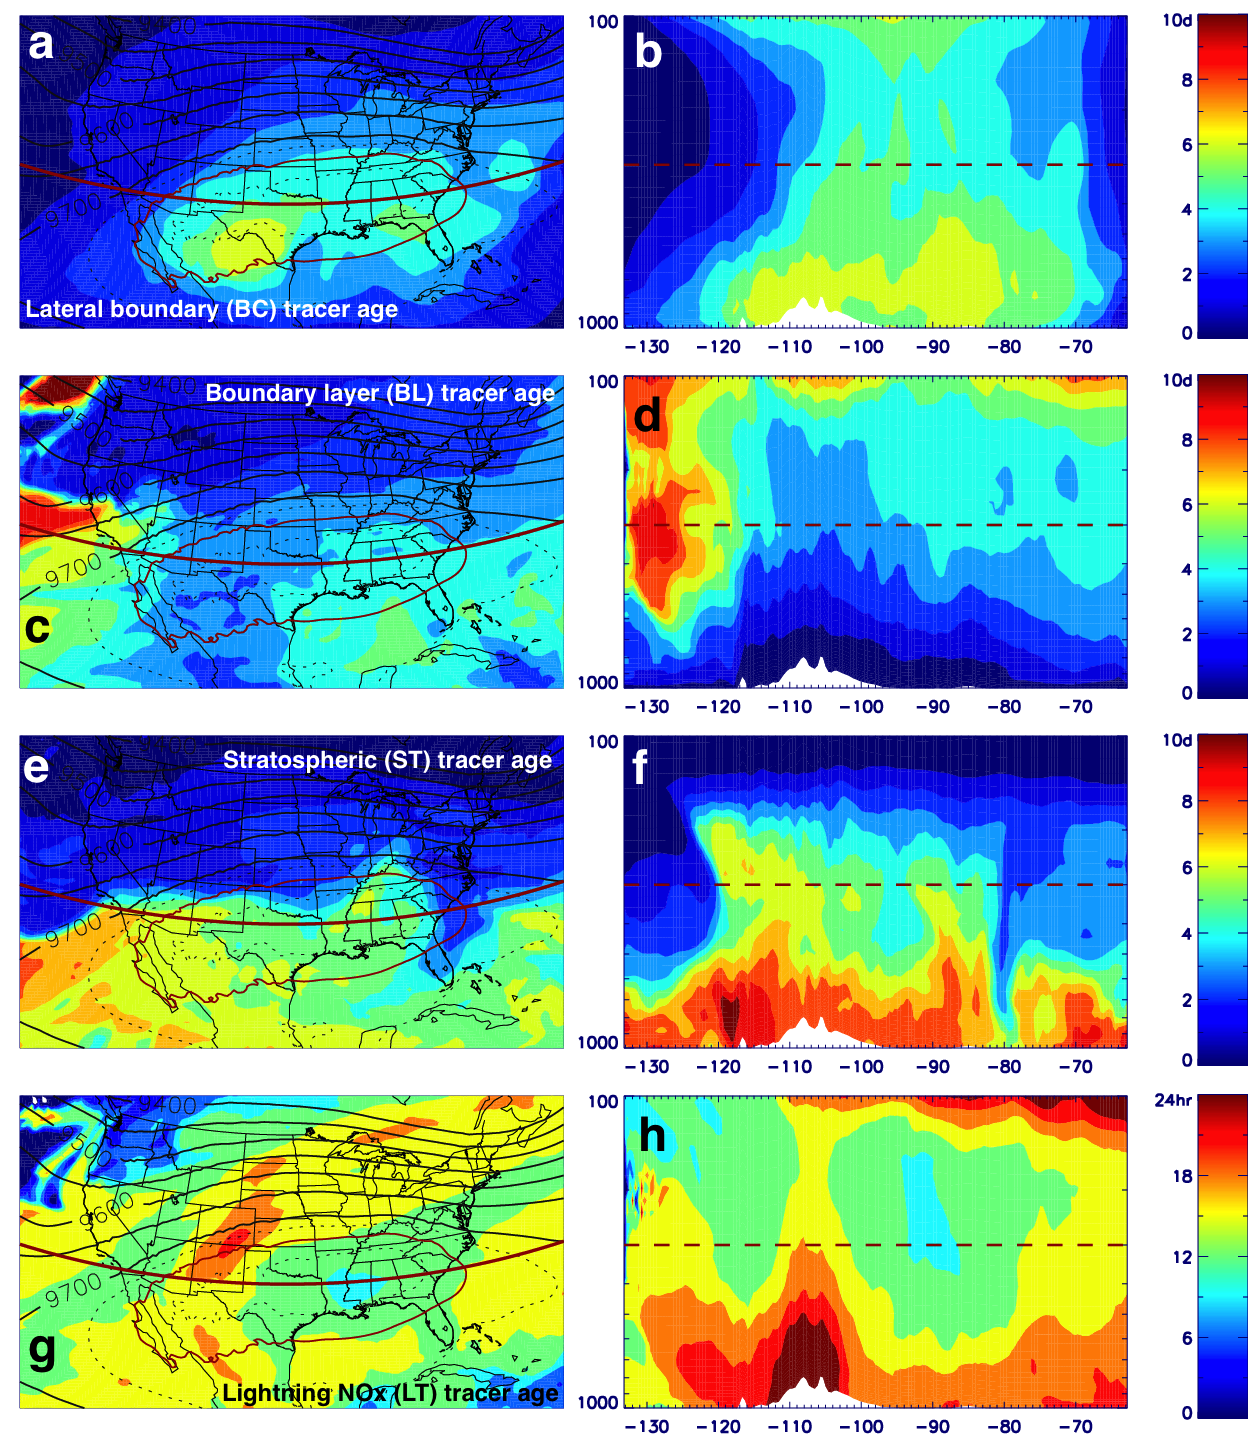
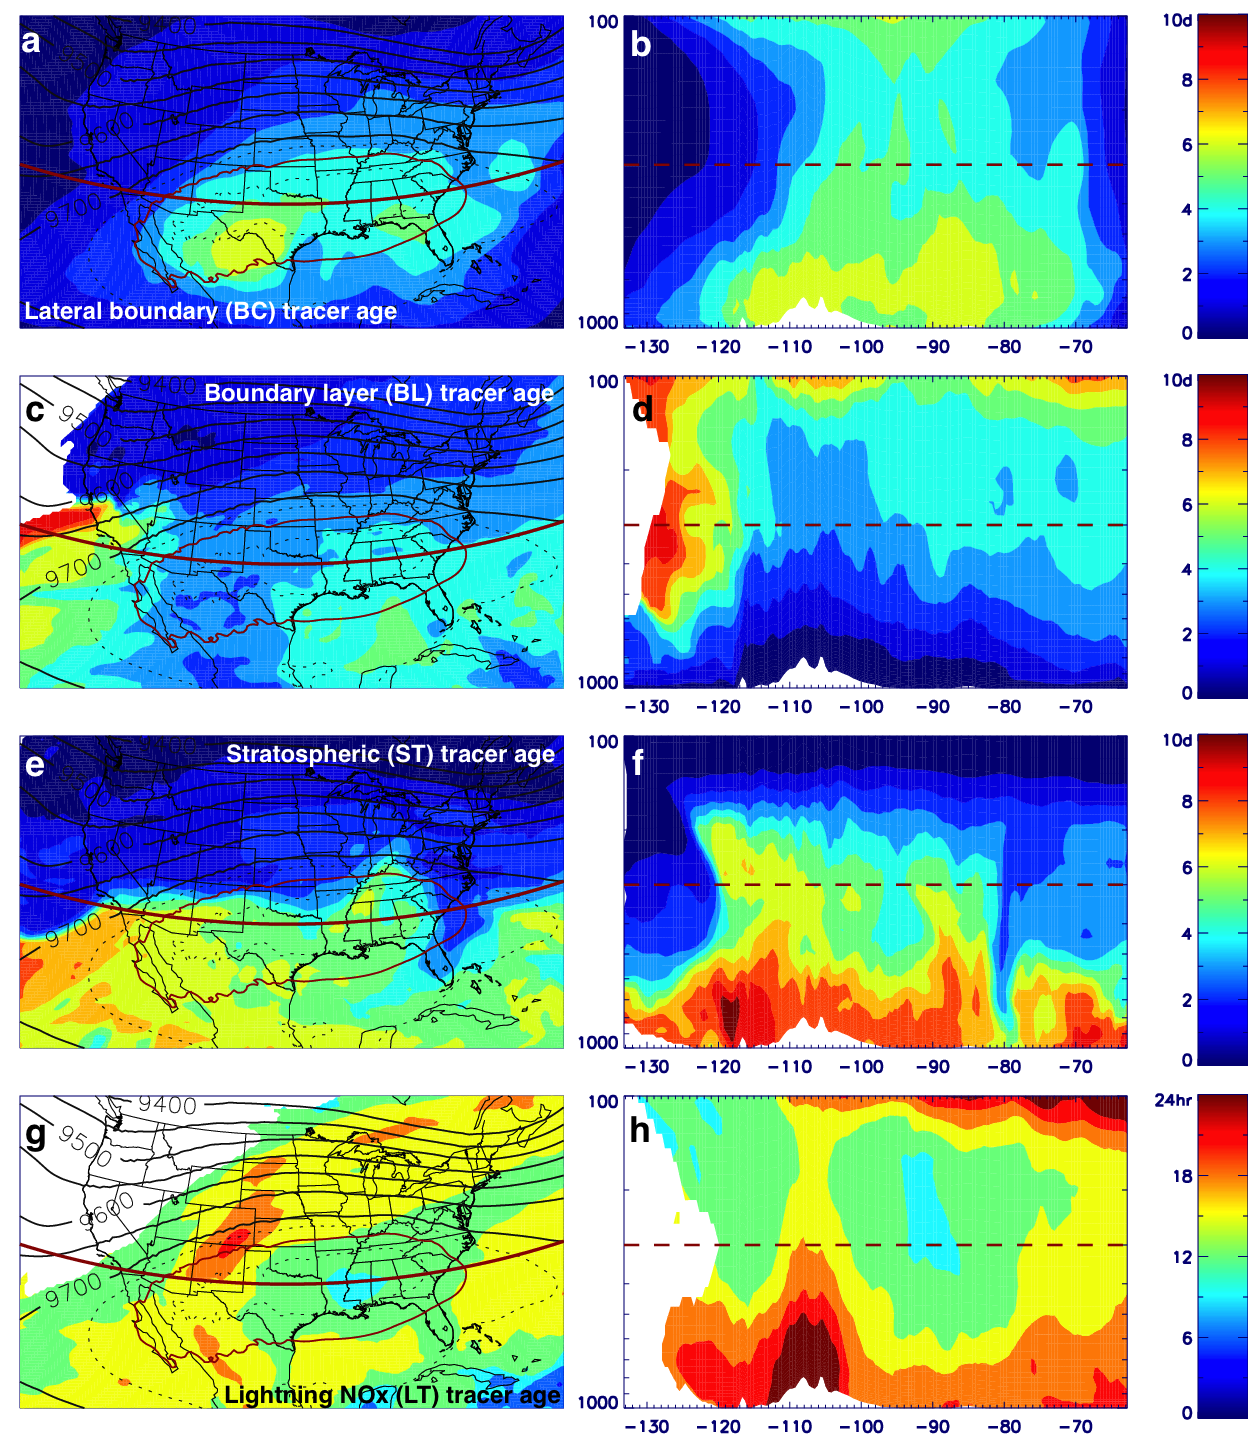
Masked out tracer age map
Masked out low variance data points from map defined where tracer value
< 1e-4.
Updated figure caption to reflect changes to colorscale and masking.

diff --git a/Chapter_2006/2006_5.tex b/Chapter_2006/2006_5.tex
@@ -90,8 +90,7 @@ Similarly, the stratospheric (ST) tracer shows very minimal impact from the NAM 
 shedding across the jet stream in the outflow region along the eastern seaboard.
 
 \figuremacroW{tracer/age_maps}{Passive tracer age}{\label{fig:2006/tracer_age}
-Same as Figure~\ref{fig:2006/tracers} except for tracer equivalent age. Darker colored regions represent young tracers, while lighter
-colored/white regions represent aged tracers}{0.9}
+Same as Figure~\ref{fig:2006/tracers} except for tracer equivalent age. Low variance data points ($<10^{-4}$) have been masked out.}{0.9}
 
 The tracer equivalent ages, calculated according to Equation~\ref{eqn:tracer-age}, are mapped in Figure~\ref{fig:2006/tracer_age}.
 Similar to the decaying tracer distributions, BC and LT tracers are the only ones showing some correlations with the anticyclone boundary.
